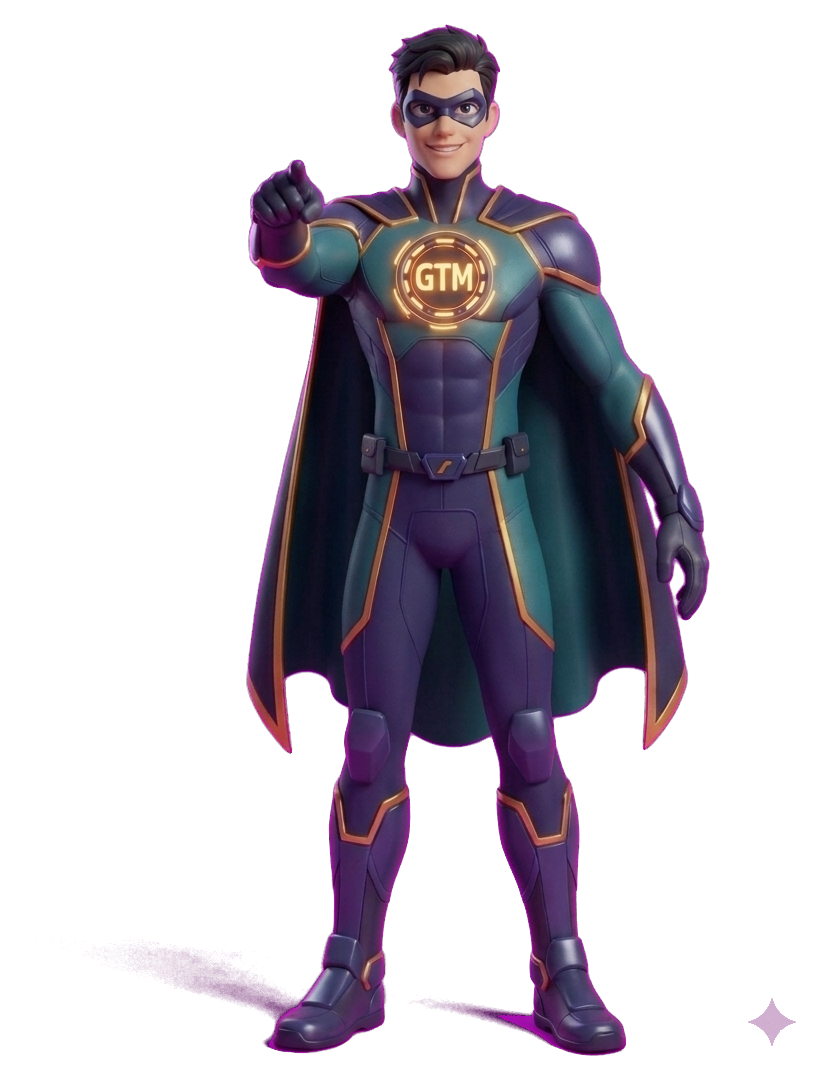
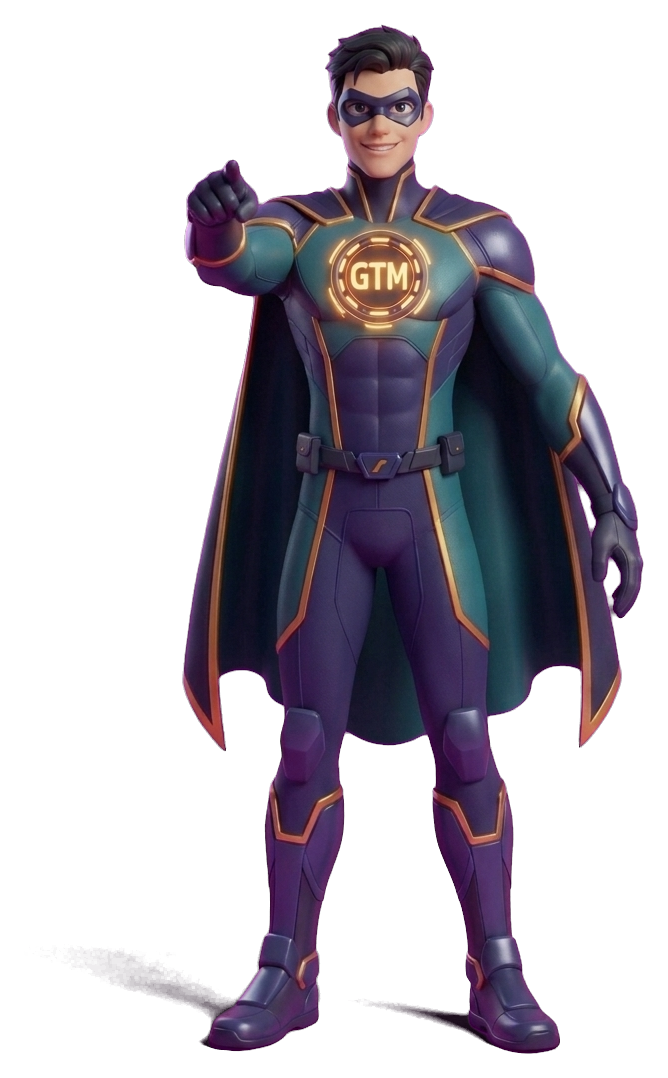
Improve pose keying and patch the full watermark

Changed region(s): [[0.1497, 0.0, 0.9581, 0.9796], [0.9281, 0.9184, 0.9581, 0.9796], [0.4192, 0.949, 0.4491, 0.9796]]

diff --git a/scripts/key_poses.py b/scripts/key_poses.py
@@ -17,7 +17,7 @@ import os
 from pathlib import Path
 
 import numpy as np
-from PIL import Image
+from PIL import Image, ImageFilter
 
 # Canonical pose name -> source filename
 POSES = {
@@ -57,20 +57,29 @@ def key_image(src: Path, dst: Path) -> None:
     bg = background_color(arr)
 
     # Patch the Gemini sparkle (bottom-right) with the local background colour.
-    patch = 96
-    x0, y0 = w - patch - 16, h - patch - 16
+    # The sparkle sits just above the corner, so cover a tall corner block.
+    patch_w, patch_h = 180, 230
+    x0, y0 = w - patch_w, h - patch_h
     arr[max(0, y0) : h, max(0, x0) : w] = bg
 
     # Soft chroma key by colour distance to the background.
     distance = np.sqrt(((arr - bg) ** 2).sum(axis=2))
     alpha = np.clip((distance - 42.0) / (92.0 - 42.0), 0.0, 1.0)
 
-    # Mild magenta despill on the fringe: pull R and B toward G.
-    fringe = (alpha > 0.02) & (alpha < 0.98)
+    # Aggressive magenta despill: the render has a pink rim light baked into the
+    # character edge, so pull R and B toward G wherever magenta dominates.
     r, g, b = arr[..., 0], arr[..., 1], arr[..., 2]
-    excess = np.clip(np.maximum(r, b) - g, 0, None) * 0.55
-    arr[..., 0] = np.where(fringe, r - excess, r)
-    arr[..., 2] = np.where(fringe, b - excess, b)
+    magenta_score = (r + b) / 2.0 - g
+    mask = magenta_score > 50
+    reduce = np.clip((magenta_score - 50.0) / 80.0, 0.0, 1.0) * 0.9
+    arr[..., 0] = np.where(mask, r - reduce * (r - g), r)
+    arr[..., 2] = np.where(mask, b - reduce * (b - g), b)
+
+    # Shrink the matte by one pixel to drop the outermost fringe.
+    alpha_image = Image.fromarray((alpha * 255).astype(np.uint8), "L").filter(
+        ImageFilter.MinFilter(3)
+    )
+    alpha = np.array(alpha_image).astype(np.float32) / 255.0
 
     rgba = np.dstack([arr.astype(np.uint8), (alpha * 255).astype(np.uint8)])
     keyed = Image.fromarray(rgba, "RGBA")
